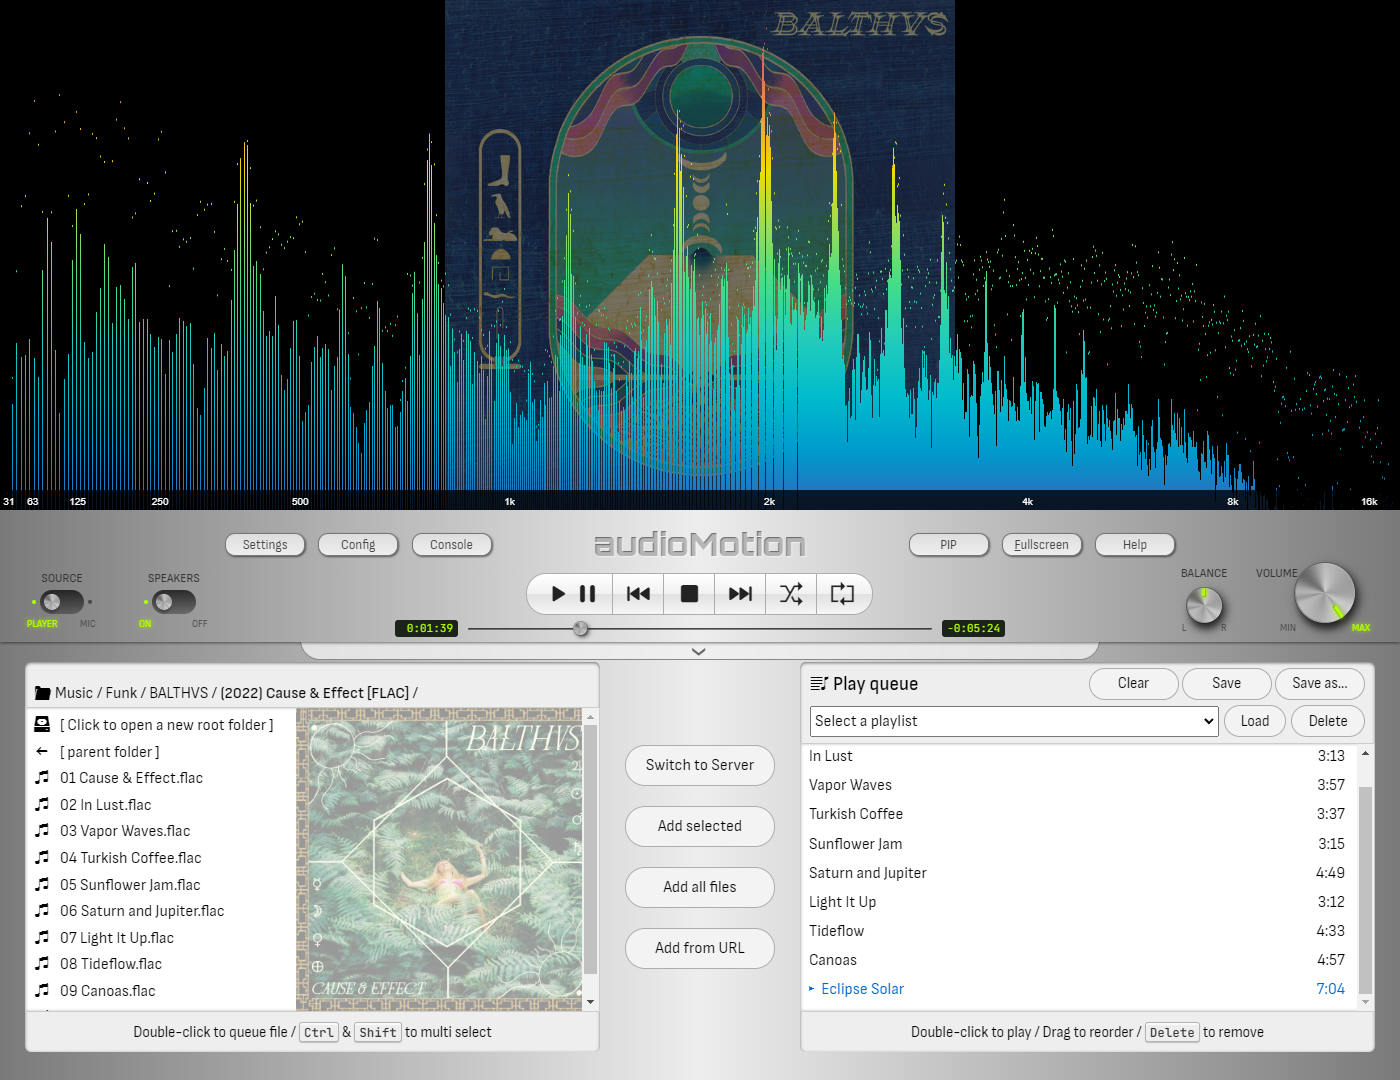
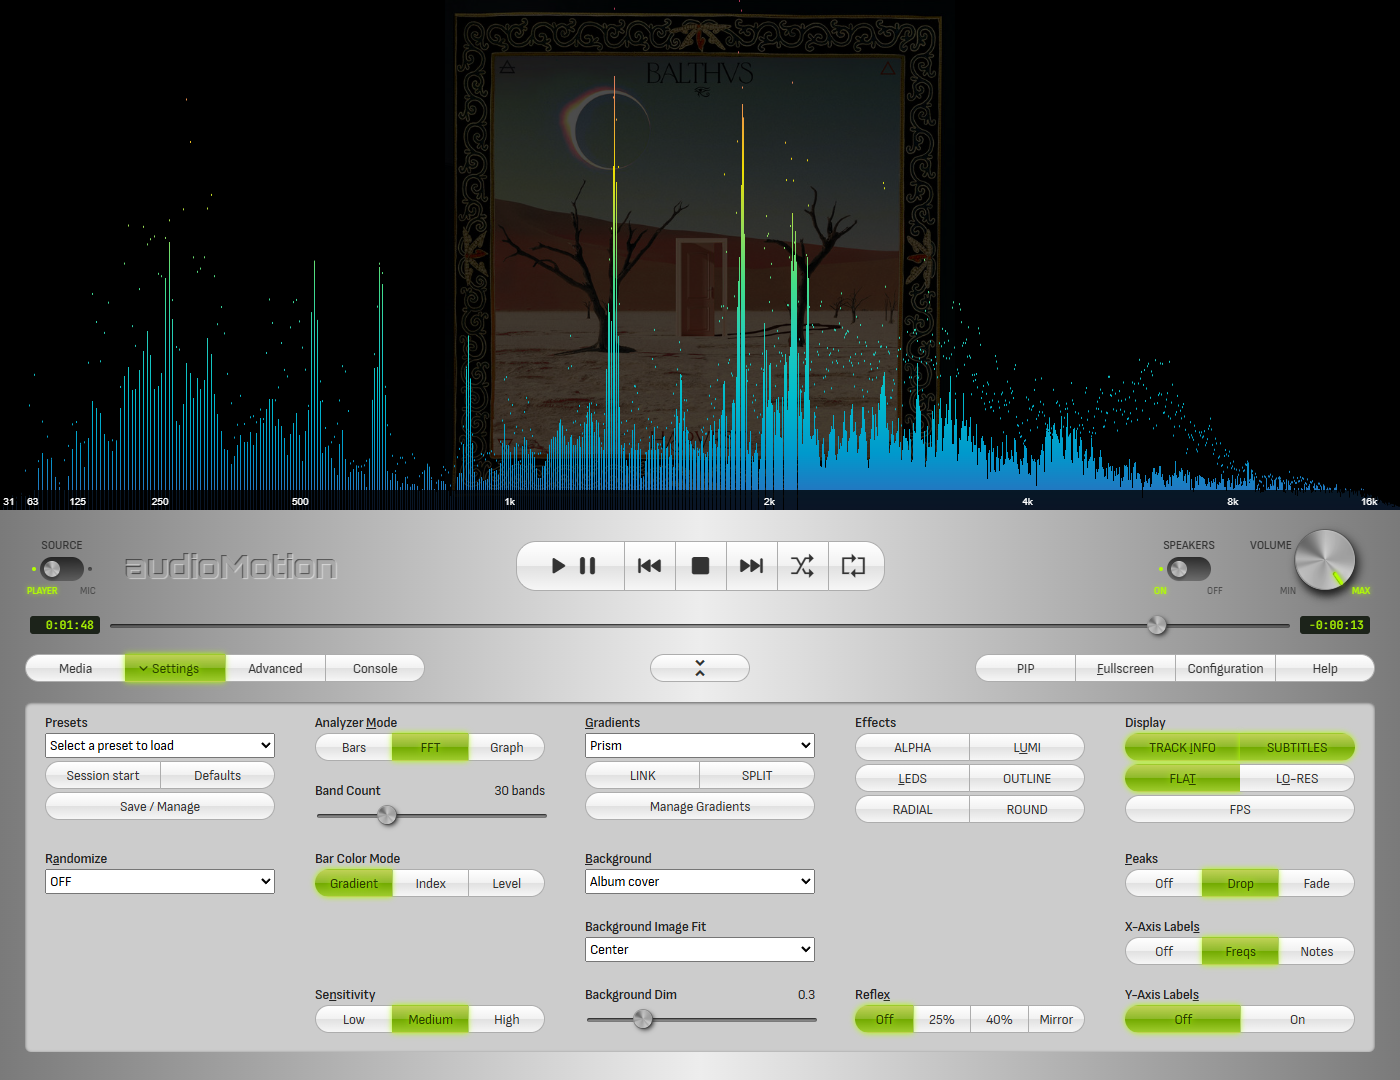
update docs (wip)

diff --git a/docs/Changelog.md b/docs/Changelog.md
@@ -4,18 +4,18 @@
 
 ### Added: <!-- {docsify-ignore} -->
 
-+ New **Advanced** panel to declutter the **Settings** panel of less-used options;
-+ New **Band Count** setting;
-+ New **Radial Size** setting;
-+ New compact analyzer layout for watching videos - customize in *Configuration > Subtitles & Video*;
-+ Support for 5.1 surround audio output (experimental - currently works only with single-channel layout);
++ New [**Advanced** panel](advanced.md) to declutter the Settings panel of less-used options;
++ New [**Band Count**](settings.md#band-cound) setting;
++ New [**Radial Size**](advanced.md#radial-size) setting;
++ New compact analyzer layout for watching videos - customize in [*Configuration > Subtitles & Video*](configuration.md#subtitles-amp-video);
++ Support for 5.1 surround audio output - enable it in [*Configuration > General settings*](configuration.md#general-settings) (experimental - currently works only with single-channel layout);
 + Import and export Settings - backup and share your presets in [Discussions > Resources > Presets](https://github.com/hvianna/audioMotion.js/discussions/categories/presets);
 + Import and export Gradients - backup and share your creations in [Discussions > Resources > Gradients](https://github.com/hvianna/audioMotion.js/discussions/categories/gradients);
-+ Option to enable/disable letterboxing for video;
-+ Option to invert scroll direction for Volume control - suggested by **@JesusGod-Pope666-Info**;
++ Option to enable/disable letterboxing for video, in [*Configuration > Subtitles & Video*](configuration.md#subtitles-amp-video);
++ Option to invert scroll direction for Volume control, in [*Configuration > General settings*](configuration.md#general-settings) - suggested by **@JesusGod-Pope666-Info**;
 + Debug mode with extra messages/events logged to Console;
 + Button to copy messages to clipboard on Console;
-+ More intermediate values for *Background Image Dim*, *Bar Spacing*, *FFT Smoothing*, *Fill Opacity*, *Radial Spin* and *Reflex*.
++ More intermediate values for [*Background Dim*](settings.md#background-dim), [*Bar Spacing*](advanced.md#bar-spacing), [*FFT Smoothing*](advanced.md#fft-smoothing), [*Fill Opacity*](advanced.md#fill-opacity), [*Radial Spin*](advanced.md#radial-spin) and [*Reflex*](settings.md#reflex).
 
 ### Changed & improved: <!-- {docsify-ignore} -->
 
@@ -27,7 +27,8 @@
 + Files that fail loading/playing are now flagged in red color in the play queue;
 + Increased the default maximum number of background image files from 20 to 100;
 + Gradients and saved playlists are now listed in alphabetical order in their selection boxes;
-+ New default settings: [Background:](settings.md#background) **album cover**; [Bar Spacing:](advanced.md#bar-spacing) **20%**; [Background Dim:](settings.md#background-dim) **0.3**; [Level Scale:](advanced.md#level-scale) **Linear**; [Line Width:](advanced.md#level-scale) **1**; [Radial Size:](advanced.md#radial-size) **0.5**; [Weighting Filter:]((advanced.md#weighting-filter) **D**.
++ New defaults: [Background:](settings.md#background) **album cover**; [Bar Spacing:](advanced.md#bar-spacing) **20%**; [Background Dim:](settings.md#background-dim) **0.3**; [Level Scale:](advanced.md#level-scale) **Linear**; [Line Width:](advanced.md#level-scale) **1**; [Radial Size:](advanced.md#radial-size) **0.5**; [Weighting Filter:]((advanced.md#weighting-filter) **D**;
++ Server configuration file (`config.json`) converted to YAML format (`config.yaml`) - see [Self-hosting > config.yaml file](server.md#configyaml-file) (props to [**@Borewit**](https://github.com/hvianna/audioMotion.js/pull/94)).
 
 ### Fixed: <!-- {docsify-ignore} -->
 
@@ -39,7 +40,6 @@
 ### Removed: <!-- {docsify-ignore} -->
 
 + Balance control;
-+ `config.json` configuration file converted to YAML - see [Self-hosting > config.yaml file](server.md#configyaml-file) (props to [**@Borewit**](https://github.com/hvianna/audioMotion.js/pull/94)).
 + `mediaPanel` URL parameter has been deprecated - use [`frontPanel`](server.md#url-parameters) instead;
 + Custom file server module (just use `npm start`);
 + Code from the unfinished Electron version;

diff --git a/docs/screenshots.md b/docs/screenshots.md
@@ -1,13 +1,13 @@
 # Screenshots
 
 ![screenshot1](img/screenshot1.png)
-*User interface showing the analyzer in **Discrete frequencies** mode (using the **Bark** frequency scale), player control panel and media panel.*
+*User interface showing the analyzer in **FFT** mode with **Bark** frequency scale. Settings panel selected.*
 
 ![screenshot2](img/screenshot2.png)
-*Analyzer set to 1/4th-octave bands mode with LEDS effect and on-screen song information. The **Settings** panel is shown open over the media panel.*
+*Analyzer set to 1/3rd-octave bands mode with LEDS effect and on-screen song information. Media panel selected.*
 
 ![screenshot4](img/screenshot4.jpg)
-*Video playback with subtitles, hidden media panel, analyzer set to Area graph mode, "Rainbow" gradient, Linear amplitude and Notes scale.*
+*Video playback with subtitles, collapsed front panel, [compact analyzer](configuration.md#subtitles-amp-video) set to 1/12th-octave bands and Notes labels displayed in the X-Axis.*
 
 ![screenshot3](img/screenshot3.png)
 *Fullscreen view: 1/6th-octave bands, "Outrun" gradient, Reflex effect and complete on-screen information.*

diff --git a/docs/media-panel.md b/docs/media-panel.md
@@ -55,17 +55,17 @@ Click the **Clear** button to clear the play queue.
 
 The play queue is automatically restored the next time you open audioMotion. You can disable this feature in [Configuration > General settings](#general-settings).
 
+<img src="img/internal-playlists.png" class="img-right">
+
 **You can save the play queue to internal playlists for quick access.**
 
-Saved playlists appear in the playlist selection box, as shown below:
-
-![internal-playlists](img/internal-playlists.png)
+Saved playlists appear in the playlist selection box (shown right).
 
 Create and manage your playlists using the following buttons:
 
 | Button | Action |
 |:-------|:-------|
-**Save as...** | Saves the current queue contents to a new playlist
+**Save&nbsp;as...** | Saves the current queue contents to a new playlist
 **Save**       | **Update the selected playlist** with the current queue contents
 **Load**       | Load the selected playlist, **adding** its contents to the end of the current queue
 **Delete**     | Permanently delete the selected playlist

diff --git a/docs/known-issues.md b/docs/known-issues.md
@@ -1,5 +1,9 @@
 # Known issues
 
+### Browser requirements
+
+**audioMotion** requires at least Chrome/Chromium 80, Firefox 74 or Safari 13.1.
+
 ### File System Access API
 
 Playing music and loading backgrounds from your local device relies on the [File System Access API](https://caniuse.com/native-filesystem-api), which
